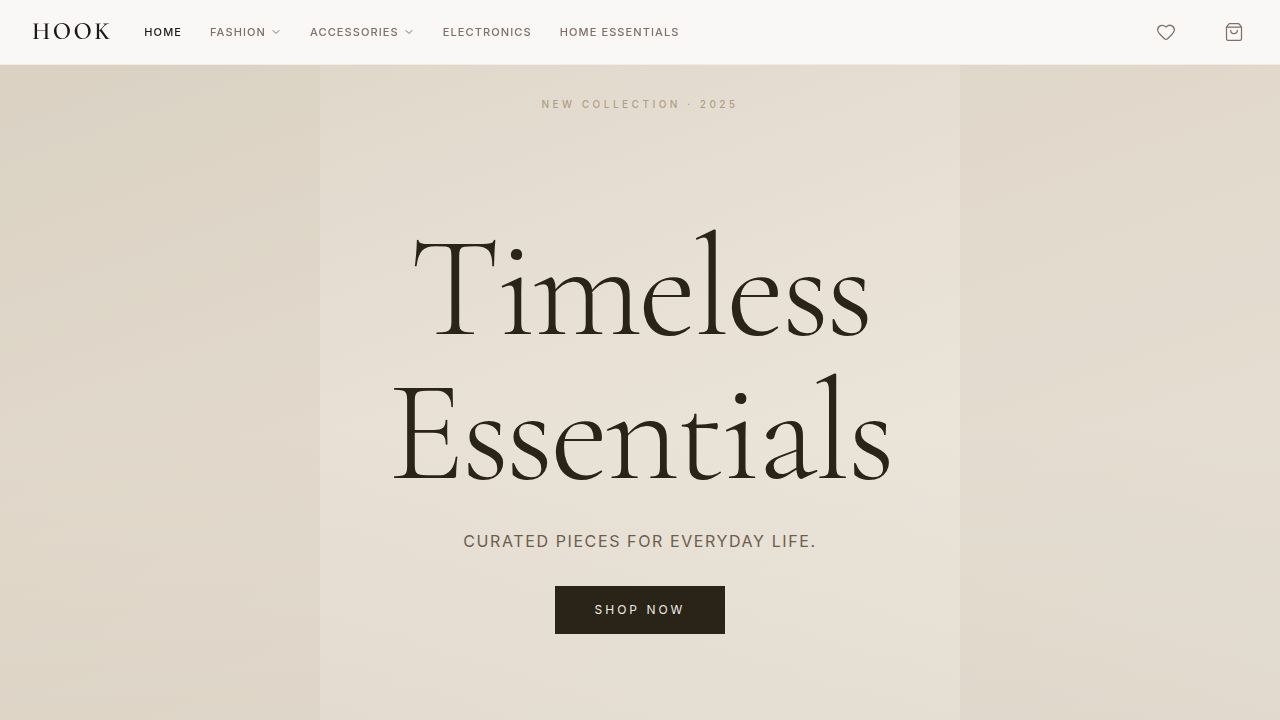
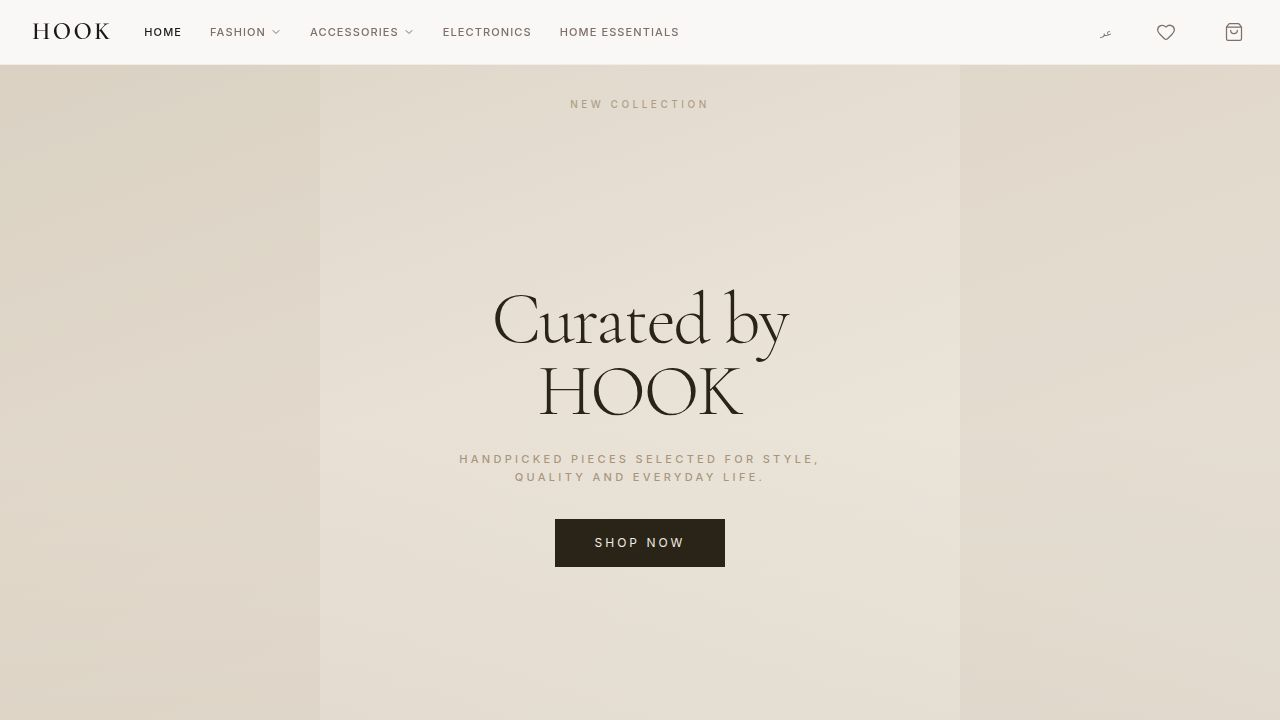
Add sport categories and enhance store page navigation and filtering
Introduce "women-sport" and "men-sport" categories across the application, including backend enum updates, locale translations, admin dashboard integration, and specific category pages. Additionally, refactor the StorePage to include a new sticky header with a search bar for live filtering of products, collections, and looks, and move it outside the main AppLayout for a dedicated header experience.

Replit-Commit-Author: Agent
Replit-Commit-Session-Id: f1c61e2c-5797-4af4-89f4-1af12ed0b6b8
Replit-Commit-Checkpoint-Type: full_checkpoint
Replit-Commit-Event-Id: fc64c11f-926a-41ce-b677-92b7b68d1287
Replit-Commit-Screenshot-Url: https://storage.googleapis.com/screenshot-production-us-central1/e3317b26-9f57-43d6-910c-b253c94e5fcd/f1c61e2c-5797-4af4-89f4-1af12ed0b6b8/qOWDuKh
Replit-Helium-Checkpoint-Created: true

diff --git a/artifacts/hook/src/pages/StorePage.tsx b/artifacts/hook/src/pages/StorePage.tsx
@@ -17,9 +17,12 @@ import {
   Star,
   Package,
   TrendingUp,
+  Search,
 } from "lucide-react";
 import { useToast } from "@/hooks/use-toast";
 import { AddToBasketModal } from "@/components/AddToBasketModal";
+import { useBasket } from "@/contexts/BasketContext";
+import { useFavorites } from "@/contexts/FavoritesContext";
 
 const BASE = import.meta.env.BASE_URL.replace(/\/$/, "");
 
@@ -90,7 +93,10 @@ export default function StorePage() {
   const [notFound, setNotFound] = useState(false);
   const [copiedLink, setCopiedLink] = useState(false);
   const [addingProduct, setAddingProduct] = useState<StoreFeaturedProduct | null>(null);
+  const [searchQuery, setSearchQuery] = useState("");
   const { toast } = useToast();
+  const { items: basketItems, openBasket } = useBasket();
+  const { count: favCount } = useFavorites();
 
   useEffect(() => {
     if (!username) return;
@@ -193,8 +199,78 @@ export default function StorePage() {
   const { member, stats, collections, looks, featuredProducts } = store;
   const displayName = member.displayName ?? member.fullName;
 
+  const q = searchQuery.trim().toLowerCase();
+  const filteredProducts = q
+    ? featuredProducts.filter(
+        (p) =>
+          p.title.toLowerCase().includes(q) ||
+          (p.brand ?? "").toLowerCase().includes(q)
+      )
+    : featuredProducts;
+  const filteredCollections = q
+    ? collections.filter((c) => c.title.toLowerCase().includes(q))
+    : collections;
+  const filteredLooks = q
+    ? looks.filter((l) => l.title.toLowerCase().includes(q))
+    : looks;
+
   return (
     <div className="min-h-screen" style={{ background: "hsl(var(--background))" }}>
+
+      {/* ══ STORE HEADER ═════════════════════════════════════════════════════ */}
+      <header className="sticky top-0 z-50 border-b border-border bg-background/95 backdrop-blur-sm">
+        <div className="max-w-7xl mx-auto px-4 sm:px-6 lg:px-8 h-14 flex items-center gap-4">
+
+          {/* Logo + "Powered by HOOK" */}
+          <Link href="/" className="flex flex-col items-start shrink-0 group">
+            <span className="font-serif text-lg leading-none tracking-widest text-foreground group-hover:opacity-70 transition-opacity">
+              HOOK
+            </span>
+            <span className="text-[8px] tracking-[0.2em] uppercase text-muted-foreground/60 leading-none mt-0.5">
+              Powered by HOOK
+            </span>
+          </Link>
+
+          {/* Search bar */}
+          <div className="flex-1 max-w-sm mx-auto relative">
+            <Search className="absolute left-3 top-1/2 -translate-y-1/2 h-3.5 w-3.5 text-muted-foreground/50 pointer-events-none" />
+            <input
+              type="text"
+              value={searchQuery}
+              onChange={(e) => setSearchQuery(e.target.value)}
+              placeholder="Search this store…"
+              className="w-full pl-8 pr-3 py-2 text-xs tracking-wide border border-border bg-accent/20 focus:bg-background focus:outline-none focus:border-foreground/30 transition-colors placeholder:text-muted-foreground/40"
+            />
+          </div>
+
+          {/* Wishlist + Basket */}
+          <div className="flex items-center gap-1 shrink-0">
+            <Link
+              href="/favorites"
+              className="relative p-2 text-muted-foreground hover:text-foreground transition-colors"
+            >
+              <Heart className="h-5 w-5" strokeWidth={1.5} />
+              {favCount > 0 && (
+                <span className="absolute top-1 right-1 w-3.5 h-3.5 rounded-full bg-foreground text-background text-[8px] flex items-center justify-center leading-none">
+                  {favCount > 9 ? "9+" : favCount}
+                </span>
+              )}
+            </Link>
+            <button
+              onClick={openBasket}
+              className="relative p-2 text-muted-foreground hover:text-foreground transition-colors"
+            >
+              <ShoppingBag className="h-5 w-5" strokeWidth={1.5} />
+              {basketItems.length > 0 && (
+                <span className="absolute top-1 right-1 w-3.5 h-3.5 rounded-full bg-foreground text-background text-[8px] flex items-center justify-center leading-none">
+                  {basketItems.length > 9 ? "9+" : basketItems.length}
+                </span>
+              )}
+            </button>
+          </div>
+
+        </div>
+      </header>
 
       {/* ══ COVER IMAGE ══════════════════════════════════════════════════════ */}
       <div className="relative">
@@ -324,16 +400,16 @@ export default function StorePage() {
             </div>
 
             {/* ── COLLECTIONS ──────────────────────────────────────────────── */}
-            {collections.length > 0 && (
+            {filteredCollections.length > 0 && (
               <section className="mb-12">
-                <SectionHeader icon={FolderOpen} title="Collections" count={collections.length} />
+                <SectionHeader icon={FolderOpen} title="Collections" count={filteredCollections.length} />
 
                 {/* Mobile: horizontal scroll */}
                 <div
                   className="flex gap-4 overflow-x-auto pb-3 lg:hidden"
                   style={{ scrollbarWidth: "none", WebkitOverflowScrolling: "touch" } as React.CSSProperties}
                 >
-                  {collections.map((c) => (
+                  {filteredCollections.map((c) => (
                     <Link key={c.id} href={`/c/${c.shareToken}`}>
                       <div className="w-[72vw] max-w-[280px] min-w-[220px] shrink-0 bg-white dark:bg-stone-900 rounded-2xl overflow-hidden shadow-sm border border-border/50 hover:shadow-md transition-shadow">
                         <div className="aspect-[4/3] overflow-hidden bg-stone-100 dark:bg-stone-800">
@@ -356,7 +432,7 @@ export default function StorePage() {
 
                 {/* Desktop: grid */}
                 <div className="hidden lg:grid lg:grid-cols-2 xl:grid-cols-3 gap-5">
-                  {collections.map((c) => (
+                  {filteredCollections.map((c) => (
                     <Link key={c.id} href={`/c/${c.shareToken}`}>
                       <div className="group bg-white dark:bg-stone-900 rounded-2xl overflow-hidden shadow-sm border border-border/50 hover:shadow-md transition-all duration-300">
                         <div className="aspect-[4/3] overflow-hidden bg-stone-100 dark:bg-stone-800">
@@ -380,16 +456,16 @@ export default function StorePage() {
             )}
 
             {/* ── LOOKS ────────────────────────────────────────────────────── */}
-            {looks.length > 0 && (
+            {filteredLooks.length > 0 && (
               <section className="mb-12">
-                <SectionHeader icon={Layers} title="Looks" count={looks.length} />
+                <SectionHeader icon={Layers} title="Looks" count={filteredLooks.length} />
 
                 {/* Mobile: horizontal scroll */}
                 <div
                   className="flex gap-4 overflow-x-auto pb-3 lg:hidden"
                   style={{ scrollbarWidth: "none", WebkitOverflowScrolling: "touch" } as React.CSSProperties}
                 >
-                  {looks.map((l) => (
+                  {filteredLooks.map((l) => (
                     <Link key={l.id} href={`/l/${l.shareToken}`}>
                       <div className="w-[60vw] max-w-[240px] min-w-[180px] shrink-0 bg-white dark:bg-stone-900 rounded-2xl overflow-hidden shadow-sm border border-border/50 hover:shadow-md transition-shadow">
                         <div className="aspect-[3/4] overflow-hidden bg-stone-100 dark:bg-stone-800">
@@ -412,7 +488,7 @@ export default function StorePage() {
 
                 {/* Desktop: grid */}
                 <div className="hidden lg:grid lg:grid-cols-3 xl:grid-cols-4 gap-5">
-                  {looks.map((l) => (
+                  {filteredLooks.map((l) => (
                     <Link key={l.id} href={`/l/${l.shareToken}`}>
                       <div className="group bg-white dark:bg-stone-900 rounded-2xl overflow-hidden shadow-sm border border-border/50 hover:shadow-md transition-all duration-300">
                         <div className="aspect-[3/4] overflow-hidden bg-stone-100 dark:bg-stone-800">
@@ -436,12 +512,12 @@ export default function StorePage() {
             )}
 
             {/* ── FEATURED PRODUCTS ─────────────────────────────────────────── */}
-            {featuredProducts.length > 0 && (
+            {filteredProducts.length > 0 && (
               <section className="mb-12">
-                <SectionHeader icon={ShoppingBag} title="Products" count={stats.products} />
+                <SectionHeader icon={ShoppingBag} title="Products" count={filteredProducts.length} />
 
                 <div className="grid grid-cols-2 sm:grid-cols-2 lg:grid-cols-3 xl:grid-cols-4 gap-4 sm:gap-5">
-                  {featuredProducts.map((p) => (
+                  {filteredProducts.map((p) => (
                     <ProductCard key={p.id} product={p} onAddToBasket={handleProductAddToBasket} onTrackClick={() => trackProductClick(p.id)} />
                   ))}
                 </div>
@@ -449,7 +525,7 @@ export default function StorePage() {
             )}
 
             {/* Empty state */}
-            {collections.length === 0 && looks.length === 0 && featuredProducts.length === 0 && (
+            {filteredCollections.length === 0 && filteredLooks.length === 0 && filteredProducts.length === 0 && (
               <div className="py-16 text-center border border-dashed border-border rounded-2xl my-8">
                 <TrendingUp className="h-8 w-8 mx-auto mb-3 text-muted-foreground/20" strokeWidth={1} />
                 <p className="text-[10px] tracking-widest uppercase text-muted-foreground mb-2">Coming Soon</p>

diff --git a/artifacts/hook/src/pages/CategoryPage.tsx b/artifacts/hook/src/pages/CategoryPage.tsx
@@ -21,6 +21,16 @@ const CATEGORY_META: Record<string, { titleKey: string; descKey: string; showDis
     descKey: "category.men.description",
     showDiscoverMore: true,
   },
+  "women-sport": {
+    titleKey: "category.womenSport.title",
+    descKey: "category.womenSport.description",
+    showDiscoverMore: true,
+  },
+  "men-sport": {
+    titleKey: "category.menSport.title",
+    descKey: "category.menSport.description",
+    showDiscoverMore: true,
+  },
   electronics: {
     titleKey: "category.electronics.title",
     descKey: "category.electronics.description",

diff --git a/artifacts/hook/src/App.tsx b/artifacts/hook/src/App.tsx
@@ -112,6 +112,9 @@ function Router() {
         <Route path="/team/change-password" component={ProtectedTeamChangePassword} />
         <Route path="/team" component={ProtectedTeamDashboard} />
 
+        {/* Store pages — own header, no AppLayout */}
+        <Route path="/store/:username" component={StorePage} />
+
         {/* Public routes — wrapped in AppLayout */}
         <Route>
           <AppLayout>
@@ -121,6 +124,8 @@ function Router() {
               <Route path="/shop-the-setup" component={ShopTheSetup} />
               <Route path="/women" component={() => <CategoryPage category="women" />} />
               <Route path="/men" component={() => <CategoryPage category="men" />} />
+              <Route path="/women-sport" component={() => <CategoryPage category="women-sport" />} />
+              <Route path="/men-sport" component={() => <CategoryPage category="men-sport" />} />
               <Route
                 path="/accessories"
                 component={() => <CategoryPage category="accessories" />}
@@ -137,7 +142,6 @@ function Router() {
               <Route path="/product/:id" component={ProductDetail} />
               <Route path="/c/:token" component={CollectionShare} />
               <Route path="/l/:token" component={LookShare} />
-              <Route path="/store/:username" component={StorePage} />
               <Route path="/rankings" component={RankingsPage} />
               <Route path="/basket/:token" component={BasketSharePage} />
               <Route component={NotFound} />

diff --git a/artifacts/hook/src/pages/AdminDashboard.tsx b/artifacts/hook/src/pages/AdminDashboard.tsx
@@ -57,6 +57,8 @@ type Tab = "dashboard" | "products" | "looks" | "categories" | "settings" | "ima
 const CATEGORIES = [
   { value: "women", label: "Women" },
   { value: "men", label: "Men" },
+  { value: "women-sport", label: "Women Sport" },
+  { value: "men-sport", label: "Men Sport" },
   { value: "electronics", label: "Electronics" },
   { value: "home", label: "Home Essentials" },
   { value: "accessories", label: "Accessories" },
@@ -1786,6 +1788,8 @@ const SITE_IMAGE_SECTIONS: Array<{ key: SiteImageKey; label: string }> = [
   { key: "hero", label: "Home Hero" },
   { key: "women", label: "Women" },
   { key: "men", label: "Men" },
+  { key: "women-sport", label: "Women Sport" },
+  { key: "men-sport", label: "Men Sport" },
   { key: "accessories", label: "Accessories" },
   { key: "home", label: "Home Essentials" },
   { key: "electronics", label: "Electronics" },

diff --git a/artifacts/api-server/src/routes/products.ts b/artifacts/api-server/src/routes/products.ts
@@ -6,7 +6,7 @@ import { requireTeamMember } from "../middlewares/requireTeamMember";
 
 const router: IRouter = Router();
 
-const categoryEnum = ["women", "men", "electronics", "home", "accessories"] as const;
+const categoryEnum = ["women", "men", "women-sport", "men-sport", "electronics", "home", "accessories"] as const;
 const sourceEnum = ["SHEIN", "Amazon"] as const;
 const statusEnum = ["active", "hidden"] as const;
 

diff --git a/artifacts/api-server/src/routes/subcategories.ts b/artifacts/api-server/src/routes/subcategories.ts
@@ -5,7 +5,7 @@ import { z } from "zod";
 
 const router: IRouter = Router();
 
-const categoryEnum = ["women", "men", "electronics", "home"] as const;
+const categoryEnum = ["women", "men", "women-sport", "men-sport", "electronics", "home"] as const;
 
 router.get("/subcategories", async (req, res) => {
   try {

diff --git a/artifacts/hook/src/components/AppLayout.tsx b/artifacts/hook/src/components/AppLayout.tsx
@@ -101,6 +101,8 @@ export function AppLayout({ children }: { children: ReactNode }) {
   const clothesItems = [
     { href: "/women", label: t("nav.women") },
     { href: "/men", label: t("nav.men") },
+    { href: "/women-sport", label: t("nav.womenSport") },
+    { href: "/men-sport", label: t("nav.menSport") },
     { href: "/shop-the-look", label: t("nav.shopTheLook") },
   ];
 

diff --git a/artifacts/hook/src/hooks/useSiteImages.ts b/artifacts/hook/src/hooks/useSiteImages.ts
@@ -2,7 +2,7 @@ import { useQuery, useMutation, useQueryClient } from "@tanstack/react-query";
 
 const BASE = import.meta.env.BASE_URL.replace(/\/$/, "");
 
-export const SITE_IMAGE_KEYS = ["hero", "women", "men", "accessories", "home", "electronics", "look", "setup"] as const;
+export const SITE_IMAGE_KEYS = ["hero", "women", "men", "women-sport", "men-sport", "accessories", "home", "electronics", "look", "setup"] as const;
 export type SiteImageKey = (typeof SITE_IMAGE_KEYS)[number];
 
 export interface SiteImage {